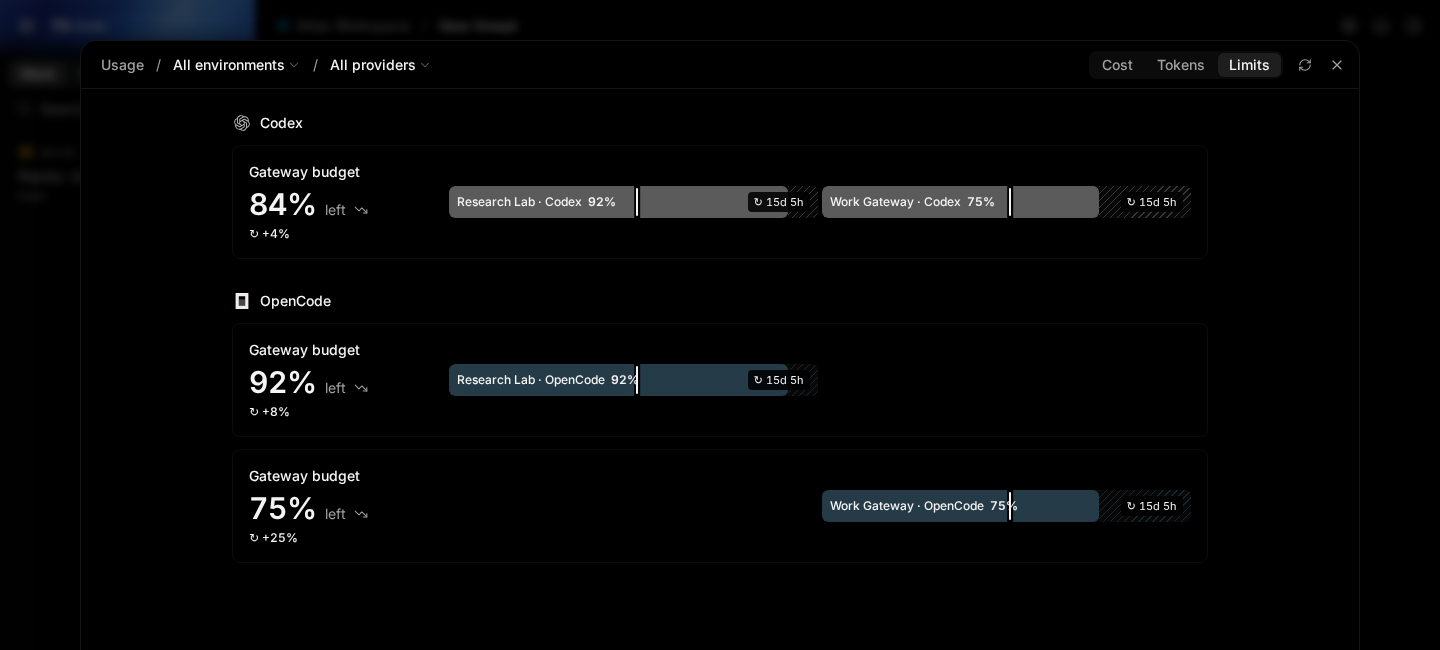
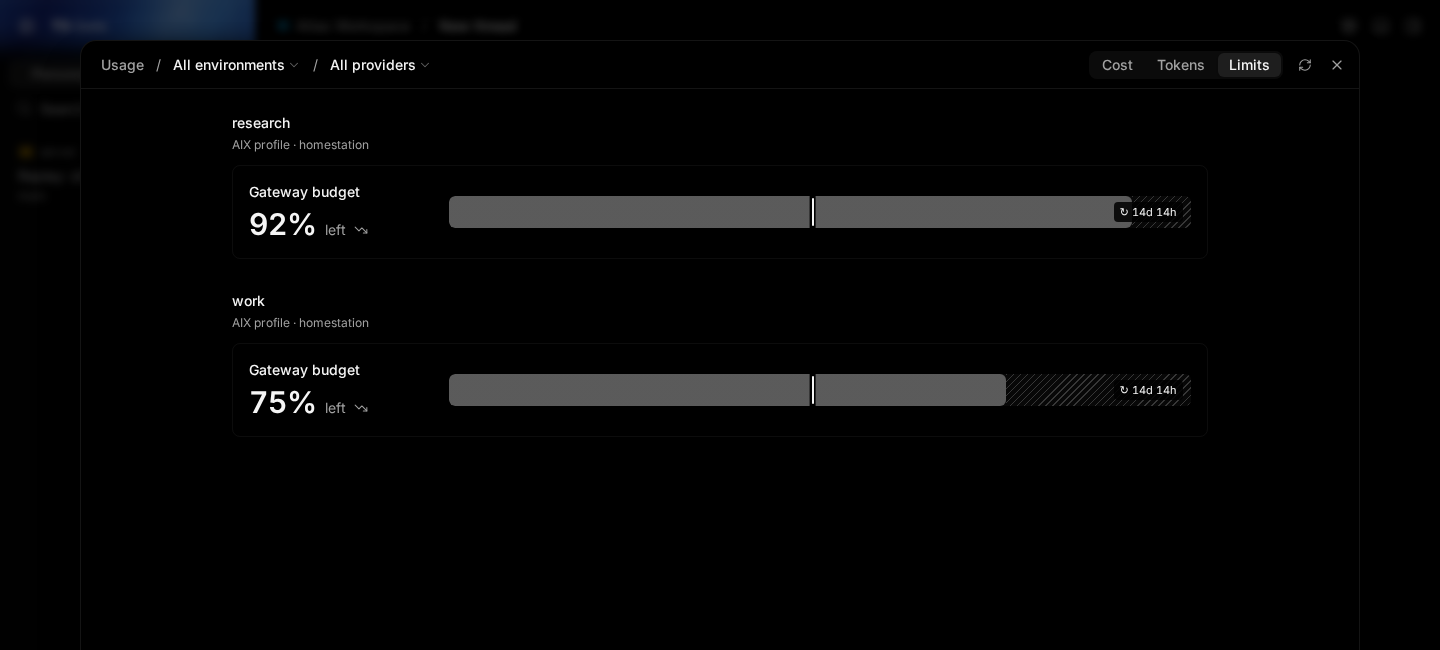
docs(readme): recapture aix screenshots with the Personal-first switcher
The README captures predated the scope switcher fix and still showed Work
first with segments that did not fill the sidebar. Recaptured all three from
current main with the same demo fixtures; the budget view now reflects the
per-profile grouping.

diff --git a/README.md b/README.md
@@ -27,13 +27,13 @@ Choose a profile's model and inspect the context window, output limits, and pric
 
 Usage limits show the budget reported for each profile, including a reset time when the gateway supplies one.
 
-![Demo Work Gateway and Research Lab budget windows for Codex and OpenCode](./.github/readme/aix/aix-budget-windows.png)
+![Demo gateway budgets for the research and work aix profiles](./.github/readme/aix/aix-budget-windows.png)
 
 ### Work and Personal views
 
 Classify environments as Work, then switch views to filter their projects and threads. The view does not change server permissions or stop running agents.
 
-![Work and Personal switch with the environment classification menu open](./.github/readme/aix/work-personal-scope.png)
+![Personal and Work switch with the environment classification menu open](./.github/readme/aix/work-personal-scope.png)
 
 ## Set up aix and run T3
 
